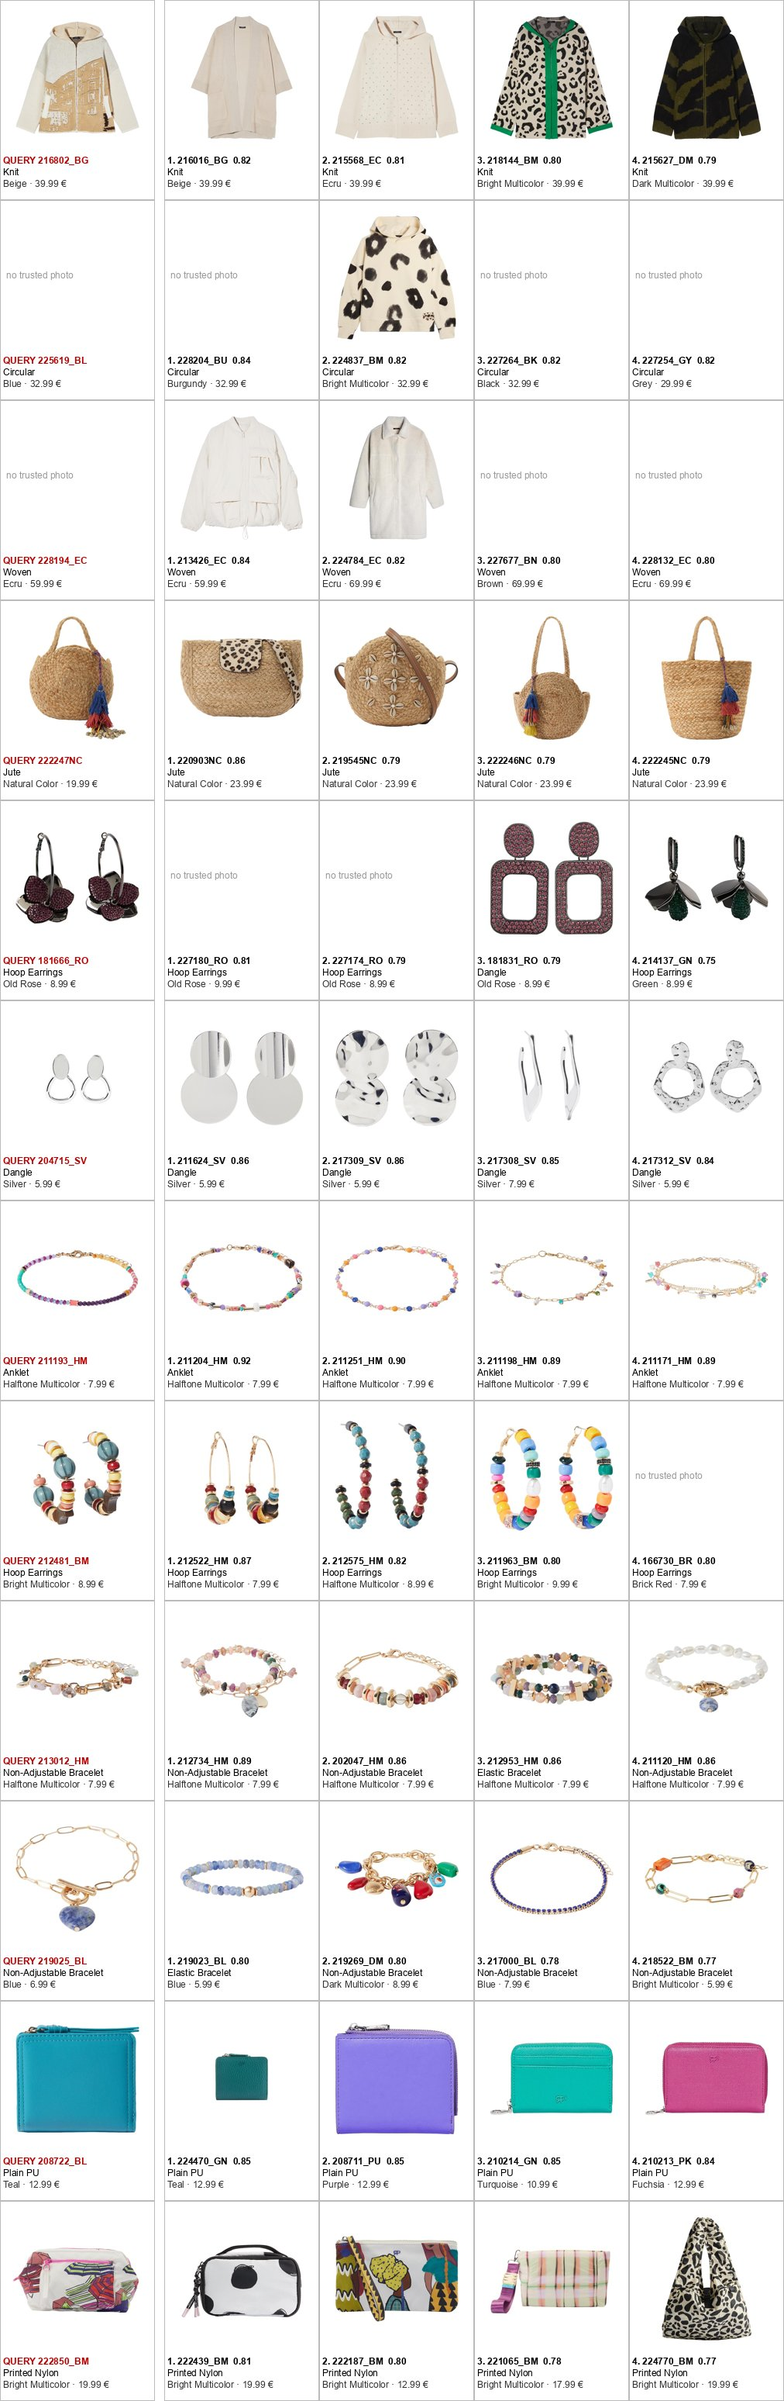
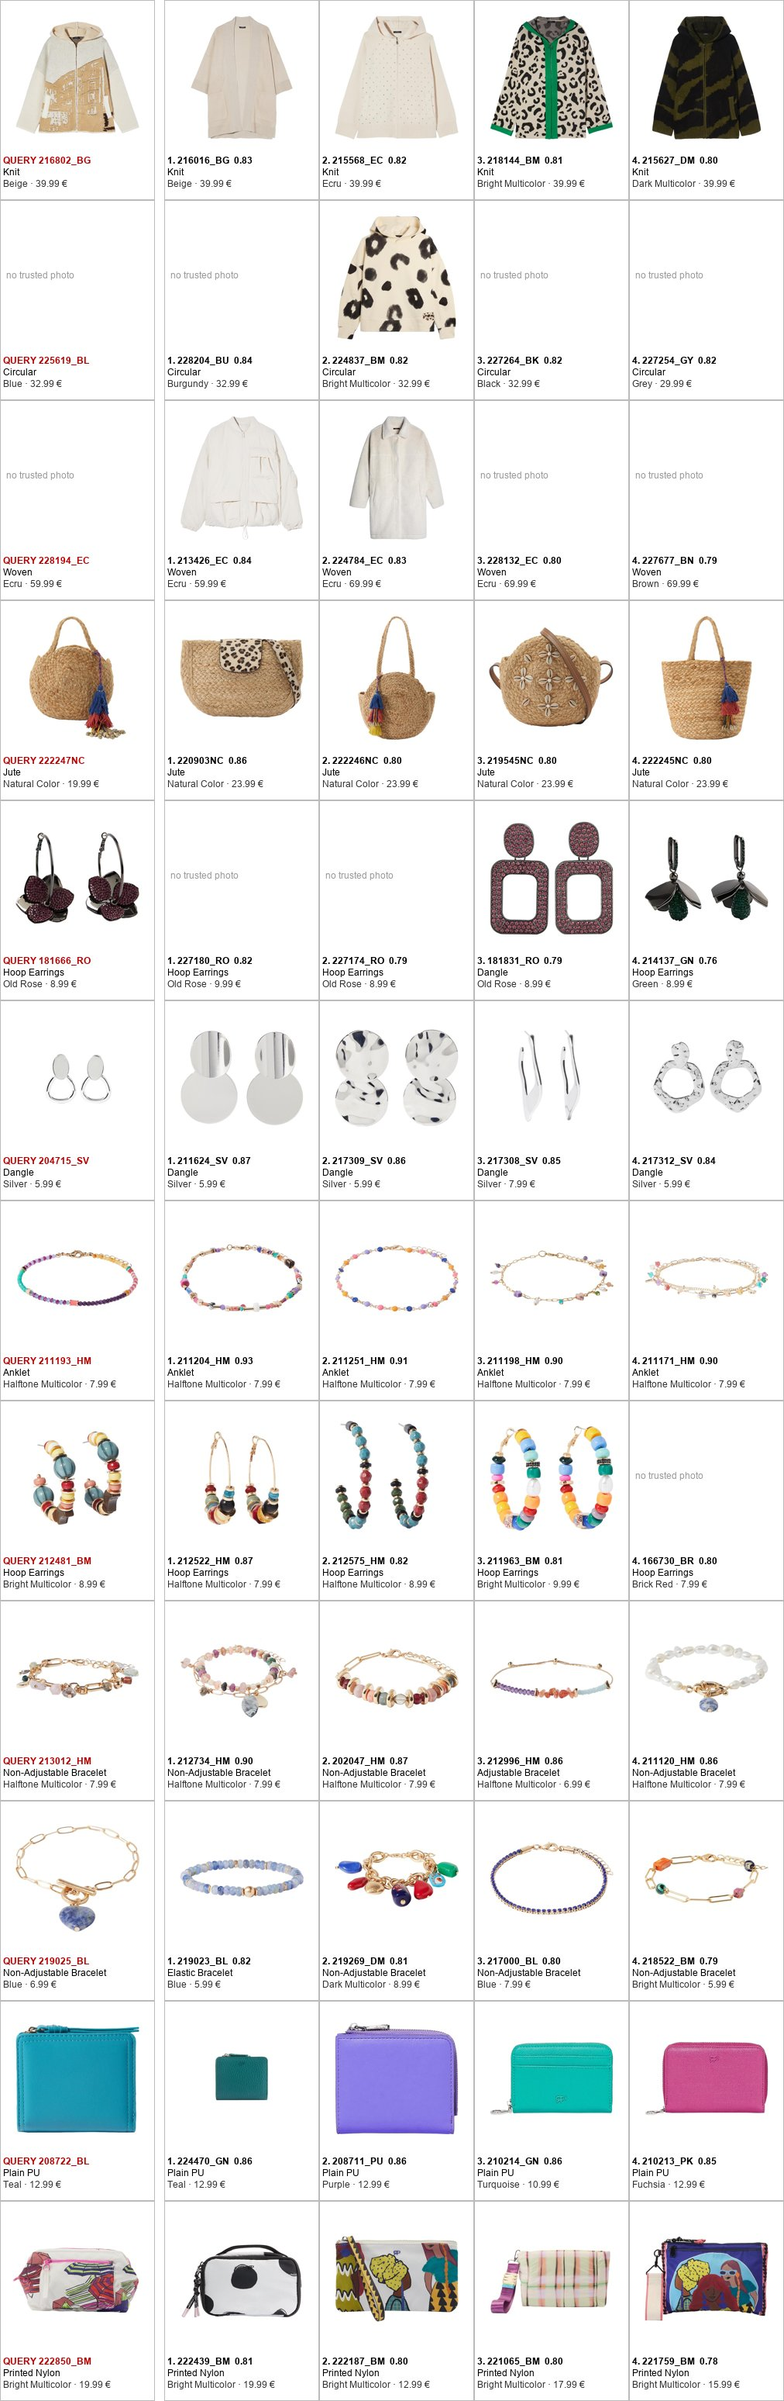
Phase 4: weights learned from the team's sorting, applied as a 25% blend
138 of 140 queries sorted (3,330 preferences). Learned: image 0.62,
categorical 0.25; held-out preferences 72.8% -> 75.3%, but material
agreement -9 points. Applied 25% of the way from the earlier tuning
(image 0.42, categorical 0.33): held-out 73.8%, material 73.9%, sales and
price unchanged. neighbours rebuilt, Phase 3/4 reports regenerated,
roadmap and progress updated.

diff --git a/outputs/phase4/eval_report.md b/outputs/phase4/eval_report.md
@@ -1,6 +1,6 @@
 # Phase 4: evaluation report
 
-Generated by `src/phase4_eval.py run` (2026-10-12). Every number is measured on the
+Generated by `src/phase4_eval.py run` (2026-10-21). Every number is measured on the
 **test half** of the models (5,292 queries); weights are tuned on the other half (5,263 queries).
 The split is fixed (models shuffled with seed 0), so runs are comparable.
 
@@ -26,14 +26,14 @@ one family for another, and the image weight is left to the human review.
 | configuration | hit@4 | hit@10 | same_family | same_subfamily | same_colour | same_finishing | same_material | visual@4 | sales_corr | price_ratio |
 |---|---|---|---|---|---|---|---|---|---|---|
 | random (same category) | 1% | 3% | 25% | 8% | 9% | 37% | 18% | 1% | 0.000 | 1.300 |
-| current weights | 91% | 96% | 98% | 90% | 58% | 84% | 74% | 39% | 0.623 | 1.000 |
-| chosen weights | 91% | 96% | 98% | 90% | 58% | 84% | 74% | 39% | 0.623 | 1.000 |
+| current weights | 92% | 96% | 98% | 90% | 59% | 84% | 74% | 41% | 0.618 | 1.000 |
+| chosen weights | 92% | 96% | 98% | 90% | 59% | 84% | 74% | 41% | 0.618 | 1.000 |
 
 | configuration | catalogue | visual | commercial | objective |
 |---|---|---|---|---|
 | random (same category) | 14% | 1% | 0.000 | 0.052 |
-| current weights | 79% | 39% | 0.623 | 0.601 |
-| chosen weights | 79% | 39% | 0.623 | 0.601 |
+| current weights | 80% | 41% | 0.618 | 0.609 |
+| chosen weights | 80% | 41% | 0.618 | 0.609 |
 
 ## Image weight: the trade-off the proxies cannot decide
 
@@ -41,52 +41,52 @@ The other blocks keep their proportions. More image weight buys visual agreement
 
 | configuration | hit@4 | hit@10 | same_family | same_subfamily | same_colour | same_finishing | same_material | visual@4 | catalogue | visual | commercial | objective |
 |---|---|---|---|---|---|---|---|---|---|---|---|---|
-| image 0 | 91% | 96% | 98% | 91% | 58% | 84% | 79% | 28% | 80% | 28% | 0.612 | 0.565 |
-| image 0.1 | 91% | 96% | 98% | 91% | 58% | 84% | 78% | 30% | 80% | 30% | 0.615 | 0.574 |
-| image 0.2 | 91% | 96% | 98% | 90% | 58% | 84% | 77% | 33% | 80% | 33% | 0.619 | 0.583 |
-| image 0.3 | 91% | 96% | 98% | 90% | 59% | 84% | 76% | 36% | 80% | 36% | 0.622 | 0.594 |
-| image 0.4 | 91% | 95% | 98% | 90% | 58% | 83% | 74% | 40% | 79% | 40% | 0.621 | 0.605 |
-| image 0.5 | 90% | 95% | 98% | 89% | 58% | 83% | 73% | 45% | 79% | 45% | 0.620 | 0.620 |
-| image 0.6 | 89% | 94% | 97% | 88% | 58% | 82% | 71% | 52% | 78% | 52% | 0.608 | 0.636 |
-| image 0.8 | 81% | 88% | 95% | 82% | 55% | 77% | 62% | 76% | 71% | 76% | 0.573 | 0.683 |
+| image 0 | 92% | 96% | 99% | 92% | 59% | 85% | 79% | 28% | 81% | 28% | 0.614 | 0.568 |
+| image 0.1 | 92% | 97% | 98% | 91% | 59% | 84% | 78% | 30% | 81% | 30% | 0.614 | 0.576 |
+| image 0.2 | 92% | 97% | 98% | 91% | 59% | 84% | 77% | 33% | 81% | 33% | 0.618 | 0.584 |
+| image 0.3 | 92% | 96% | 98% | 91% | 59% | 84% | 75% | 36% | 80% | 36% | 0.619 | 0.595 |
+| image 0.4 | 92% | 96% | 98% | 90% | 59% | 84% | 74% | 40% | 80% | 40% | 0.618 | 0.607 |
+| image 0.5 | 91% | 96% | 98% | 90% | 59% | 83% | 73% | 46% | 79% | 46% | 0.611 | 0.619 |
+| image 0.6 | 89% | 95% | 98% | 89% | 58% | 82% | 71% | 53% | 78% | 53% | 0.603 | 0.636 |
+| image 0.8 | 81% | 89% | 96% | 83% | 56% | 77% | 62% | 77% | 72% | 77% | 0.569 | 0.684 |
 
 ## Ablations (current weights, blocks switched off or used alone)
 
 | configuration | hit@4 | hit@10 | same_family | same_subfamily | same_colour | same_finishing | same_material | visual@4 | sales_corr | price_ratio |
 |---|---|---|---|---|---|---|---|---|---|---|
-| current weights | 91% | 96% | 98% | 90% | 58% | 84% | 74% | 39% | 0.623 | 1.000 |
-| tabular only | 90% | 95% | 99% | 92% | 55% | 84% | 78% | 25% | 0.621 | 1.000 |
-| visual only | 39% | 50% | 63% | 36% | 42% | 53% | 25% | 88% | 0.265 | 1.200 |
+| current weights | 92% | 96% | 98% | 90% | 59% | 84% | 74% | 41% | 0.618 | 1.000 |
+| tabular only | 91% | 96% | 99% | 92% | 56% | 85% | 77% | 26% | 0.621 | 1.000 |
+| visual only | 39% | 51% | 64% | 37% | 42% | 54% | 25% | 92% | 0.268 | 1.200 |
 | only image | 39% | 50% | 68% | 42% | 39% | 54% | 28% | 100% | 0.266 | 1.200 |
 | only categorical | 93% | 97% | 100% | 94% | 67% | 91% | 62% | 25% | 0.534 | 1.125 |
 | only text | 94% | 97% | 79% | 78% | 54% | 77% | 53% | 23% | 0.603 | 1.154 |
-| only composition | 10% | 19% | 36% | 18% | 15% | 46% | 76% | 6% | 0.244 | 1.304 |
+| only composition | 10% | 19% | 36% | 18% | 15% | 46% | 76% | 6% | 0.245 | 1.304 |
 | only palette | 11% | 18% | 27% | 11% | 32% | 43% | 20% | 9% | 0.054 | 1.304 |
 | only numeric | 16% | 27% | 42% | 17% | 17% | 48% | 27% | 5% | 0.557 | 1.000 |
-| without image | 91% | 96% | 98% | 91% | 58% | 84% | 79% | 28% | 0.612 | 1.000 |
-| without categorical | 60% | 73% | 71% | 57% | 42% | 61% | 75% | 41% | 0.609 | 1.000 |
-| without text | 89% | 94% | 98% | 87% | 59% | 84% | 76% | 39% | 0.627 | 1.000 |
-| without composition | 94% | 98% | 99% | 91% | 62% | 85% | 54% | 40% | 0.628 | 1.000 |
-| without palette | 90% | 96% | 98% | 91% | 56% | 84% | 76% | 37% | 0.630 | 1.000 |
-| without numeric | 90% | 95% | 99% | 92% | 61% | 85% | 78% | 41% | 0.550 | 1.111 |
+| without image | 92% | 96% | 99% | 92% | 59% | 85% | 79% | 28% | 0.614 | 1.000 |
+| without categorical | 62% | 75% | 72% | 59% | 43% | 62% | 74% | 48% | 0.617 | 1.000 |
+| without text | 90% | 95% | 98% | 87% | 59% | 85% | 74% | 42% | 0.624 | 1.000 |
+| without composition | 94% | 97% | 99% | 92% | 62% | 85% | 55% | 43% | 0.616 | 1.000 |
+| without palette | 91% | 96% | 99% | 91% | 57% | 84% | 75% | 40% | 0.620 | 1.000 |
+| without numeric | 91% | 95% | 99% | 92% | 62% | 85% | 76% | 44% | 0.553 | 1.111 |
 
 | configuration | catalogue | visual | commercial | objective |
 |---|---|---|---|---|
-| current weights | 79% | 39% | 0.623 | 0.601 |
-| tabular only | 80% | 25% | 0.621 | 0.558 |
-| visual only | 39% | 88% | 0.265 | 0.513 |
+| current weights | 80% | 41% | 0.618 | 0.609 |
+| tabular only | 80% | 26% | 0.621 | 0.560 |
+| visual only | 40% | 92% | 0.268 | 0.528 |
 | only image | 41% | 100% | 0.266 | 0.558 |
 | only categorical | 81% | 25% | 0.534 | 0.533 |
 | only text | 71% | 23% | 0.603 | 0.514 |
-| only composition | 33% | 6% | 0.244 | 0.212 |
+| only composition | 33% | 6% | 0.245 | 0.212 |
 | only palette | 23% | 9% | 0.054 | 0.126 |
 | only numeric | 25% | 5% | 0.557 | 0.287 |
-| without image | 80% | 28% | 0.612 | 0.565 |
-| without categorical | 59% | 41% | 0.609 | 0.538 |
-| without text | 79% | 39% | 0.627 | 0.603 |
-| without composition | 77% | 40% | 0.628 | 0.599 |
-| without palette | 79% | 37% | 0.630 | 0.597 |
-| without numeric | 81% | 41% | 0.550 | 0.590 |
+| without image | 81% | 28% | 0.614 | 0.568 |
+| without categorical | 60% | 48% | 0.617 | 0.567 |
+| without text | 79% | 42% | 0.624 | 0.612 |
+| without composition | 77% | 43% | 0.616 | 0.607 |
+| without palette | 80% | 40% | 0.620 | 0.605 |
+| without numeric | 81% | 44% | 0.553 | 0.601 |
 
 ## Weight tuning
 
@@ -96,14 +96,14 @@ drops by more than 0.01.
 
 | step | change | catalogue | visual | commercial | objective |
 |---|---|---|---|---|---|
-| 0 | start | 80% | 39% | 0.625 | 0.605 |
+| 0 | start | 80% | 42% | 0.622 | 0.614 |
 
 | weights | image | categorical | text | composition | palette | numeric |
 |---|---|---|---|---|---|---|
-| current | 0.360 | 0.360 | 0.080 | 0.080 | 0.040 | 0.080 |
-| chosen | 0.360 | 0.360 | 0.080 | 0.080 | 0.040 | 0.080 |
+| current | 0.424 | 0.332 | 0.077 | 0.067 | 0.034 | 0.066 |
+| chosen | 0.424 | 0.332 | 0.077 | 0.067 | 0.034 | 0.066 |
 
-The current weights already come from an earlier tuning (phase4_eval.py run --apply, 2026-10-12). No change passed the rule, so the current weights are kept. The weights file was not changed (`--apply` writes it).
+The current weights already come from an earlier tuning (phase4_feedback.py fit (138 queries, 5 members) blended 25% with the earlier tuning, 2026-10-21). No change passed the rule, so the current weights are kept. The weights file was not changed (`--apply` writes it).
 
 ## Human review
 

diff --git a/docs/roadmap.md b/docs/roadmap.md
@@ -20,7 +20,7 @@ This is the only place that tracks the status. The evidence for each item is in 
 |---|---|---|
 | **Sprint 1: data cleaning and validation** | 0, 1, 1b | ✅ **Done**: setup, automatic checks, image pre-screen, review app, cleaning, manual review by the 5 members, every photo checked, merge (`items_clean.parquet`) |
 | Sprint 2: features | 1 (rest), 2a, 2b | ✅ **Done**: Phase 2a (4 tabular/text blocks, missing attributes filled where reliable) and Phase 2b (image embeddings, colour palettes) |
-| Sprint 3: similarity and evaluation | 3, 4 | 🟡 **Almost done**: Phase 3 done (`neighbours.parquet`); Phase 4 evaluation and tuning done, interactive feedback app waiting for the team |
+| Sprint 3: similarity and evaluation | 3, 4 | ✅ **Done**: Phase 3 (`neighbours.parquet`); Phase 4 evaluation, tuning and the team's feedback (weights learned from 138 sorted queries, applied as a 25% blend) |
 | Sprint 4: explanations and delivery | 5, 6 | ⚪ Not started |
 
 | Phase | Status | Done | Still to do |
@@ -31,13 +31,12 @@ This is the only place that tracks the status. The evidence for each item is in 
 | 2a. Tabular/text features | ✅ | Categorical, composition, numeric and text blocks (`phase2a_features.py`, `phase2a_text.py`), missing attributes filled (`phase2a_impute.py`) | – |
 | 2b. Visual features | ✅ | Image embeddings (`data/embeddings/image_clip.npy`), colour palettes (`phase2b_palettes.py`) | Optional, **after the team's sorting**: DINOv2, CLIP tags |
 | 3. Similarity engine | ✅ | Weighted per-block cosine, like-for-like candidates, fallback without a trusted photo, top-10 for every colourway (`phase3_engine.py` → `neighbours.parquet`) | – |
-| 4. Evaluation | 🟡 | Fixed evaluation script (`phase4_eval.py`): proxy hit rate, attribute agreement, sales check, ablations, weights tuned on half of the models | Team sorts its queries in the feedback app (`phase4_feedback.py`); then the learned weights are applied |
+| 4. Evaluation | ✅ | Fixed evaluation script (`phase4_eval.py`): proxy hit rate, attribute agreement, sales check, ablations, weights tuned on half of the models; interactive feedback (`phase4_feedback.py`): 138 of 140 queries sorted, weights applied as a 25% blend | Optional: André's last 2 queries (refit only) |
 | 5–6 | ⚪ | – | Everything |
 
 **Next:**
-1. **Team:** each member sorts their 28 queries in the feedback app (`4_feedback_windows.bat` / `4_feedback_mac.command`, or `python src/phase4_feedback.py app --id <n>`) and clicks *Submit*. Steps in the README. Then one person runs `python src/phase4_feedback.py fit --apply`, `python src/phase3_engine.py build` and `python src/phase4_eval.py run` (no proxy metric may drop).
-2. Phase 5 can start now: the explanations read `sim_<block>` / `contrib_<block>` from `neighbours.parquet`.
-3. **Only after step 1:** decide on the optional Phase 2b items (DINOv2, CLIP tags), tested on the team's answers. See Phase 2b.
+1. **Phase 5** (explanations): they read `sim_<block>` / `contrib_<block>` from `neighbours.parquet`, rebuilt with the new weights.
+2. **Now possible:** decide on the optional Phase 2b items (DINOv2, CLIP tags), tested on the team's answers. See Phase 2b.
 
 ---
 
@@ -252,7 +251,7 @@ There is no labelled ground truth, so combine several signals:
 - [x] **Commercial sanity check:** similar items should have similar prices and sales profiles (correlation of log sales). *(Spearman 0.62 between the query's sales percentile and its top 4 (random 0.00); median price ratio 1.00.)*
 - [x] **Ablations:** tabular only, visual only, and combined. Tune the block weights. *(Each block alone and left out; tuned on half of the models, reported on the other half. A change is kept only if no metric drops by more than 1 point, because every proxy is circular for one block: an unconstrained search put 88% of the weight on the image and lost a third of the material agreement. The image weight itself is left to the human review.)*
 - [ ] **Human review set:** about 50 query items × top-5 results in a scoring sheet for buyers or the team. *(Sheets ready: `outputs/phase4/human_review_<n>.csv`, one per member, 50 queries (10 per category, 2 without a photo), blind pool of the top 5 at image weights 0, 0.3 and 0.6 = 319 pairs; waiting for the team's verdicts.)*
-- [ ] **Interactive feedback:** reviewers sort each query's candidates (similar, best first / not similar) in the browser, and the block weights are learned from the preferences. *(2026-10-12: `src/phase4_feedback.py`. Fixed pools so the learned weights never change what is shown: 100 queries (16 + 4 per category), top 5 at image weights 0 / 0.3 / 0.6 + 2 random, shuffled and blind, 847 candidates; 20 queries held out, 10 sorted by everybody. Bradley-Terry fit with a prior towards the current weights, refitted after every answer. Waiting for the team's answers. Supersedes the CSV sheets above.)*
+- [x] **Interactive feedback:** reviewers sort each query's candidates (similar, best first / not similar) in the browser, and the block weights are learned from the preferences. *(2026-10-12: `src/phase4_feedback.py`. Fixed pools so the learned weights never change what is shown: 100 queries (16 + 4 per category), top 5 at image weights 0 / 0.3 / 0.6 + 2 random, shuffled and blind, 847 candidates; 20 queries held out, 10 sorted by everybody. Bradley-Terry fit with a prior towards the current weights, refitted after every answer. Supersedes the CSV sheets above. 2026-10-21: 138 of 140 queries sorted (André 26/28), 3,330 preferences; learned image 0.62, categorical 0.25; held-out preferences ordered right 72.8% → 75.3%; reviewers agree on 70% of pairs. The full learned weights cost 9 points of material agreement, so a 25% blend is applied (image 0.42, categorical 0.33): held-out 73.8%, material 73.9% (was 74.5%). Details in `outputs/phase4/feedback_report.md`.)*
 - [x] A fixed evaluation script, so every change reports the same numbers. *(`src/phase4_eval.py run`, ~3 min, fixed split and seeds.)*
 
 **Output:** `outputs/phase4/eval_report.md`, `eval_metrics.csv`, `weight_search.csv`, `human_review_<n>.csv` + `.jpg` (one per member) + `human_review.json`, `feedback_pool.json`, `feedback_<n>.jsonl` (one per member), `feedback_report.md`.

diff --git a/outputs/phase4/feedback_report.md b/outputs/phase4/feedback_report.md
@@ -1,7 +1,7 @@
 # Phase 4: interactive feedback report
 
-Generated by `src/phase4_feedback.py fit` (2026-10-12) from
-28 sorted queries (4 Manuel).
+Generated by `src/phase4_feedback.py fit` (2026-10-21) from
+138 sorted queries (1 André, 2 Pedro Correia, 3 Pedro Meireles, 4 Manuel, 5 Zé).
 
 The reviewers drag each query's candidates into *Similar* (best first) or *Not similar*. Every similar item beats the
 items below it and every "not" item; the six block weights are fitted to those preferences with a Bradley-Terry
@@ -11,16 +11,16 @@ blind, so the learned weights never change what a reviewer sees.
 
 ## Weights
 
-Fitted on 22 queries (557 preferences).
+Fitted on 79 queries (3,330 preferences).
 
 | Block | Start | Learned |
 |---|---|---|
-| `image` | 0.360 | 0.456 |
-| `categorical` | 0.360 | 0.147 |
-| `text` | 0.080 | 0.248 |
-| `composition` | 0.080 | 0.046 |
-| `palette` | 0.040 | 0.045 |
-| `numeric` | 0.080 | 0.058 |
+| `image` | 0.360 | 0.618 |
+| `categorical` | 0.360 | 0.247 |
+| `text` | 0.080 | 0.067 |
+| `composition` | 0.080 | 0.028 |
+| `palette` | 0.040 | 0.016 |
+| `numeric` | 0.080 | 0.024 |
 
 ## Held-out check
 
@@ -28,15 +28,30 @@ Fitted on 22 queries (557 preferences).
 
 | Weights | Preferences | Ordered right | Top 3 judged similar |
 |---|---|---|---|
-| start | 156 | 78% | 94% |
-| learned | 156 | 79% | 94% |
+| start | 699 | 73% | 94% |
+| learned | 699 | 75% | 94% |
 
 ## Reviewer agreement
 
-On the 10 queries every member sorts: 0 candidate pairs ordered by two members,
-– in the same order. This is the ceiling: the weights cannot agree with "the team" more than
+On the 10 queries every member sorts: 2371 candidate pairs ordered by two members,
+70% in the same order. This is the ceiling: the weights cannot agree with "the team" more than
 its members agree with each other.
 
 ## Applied
 
-Not applied (`--apply` writes the weights if the held-out check passes).
+Not the learned weights themselves: a blend, **25% of the way** from the Phase 4 tuned weights to the learned ones
+(2026-10-21), written to `src/phase3_weights.json`:
+image 0.42, categorical 0.33, text 0.08, composition 0.07, palette 0.03, numeric 0.07.
+
+| Blend | Image | Held-out preferences right | Same material (top 4) | Sales correlation | Price ratio |
+|---|---|---|---|---|---|
+| 0% (earlier tuning) | 0.36 | 72.8% | 74.5% | 0.62 | 1.00 |
+| **25% (applied)** | 0.43 | 73.8% | 73.9% | 0.62 | 1.00 |
+| 50% | 0.49 | 73.4% | 72.1% | 0.61 | 1.00 |
+| 75% | 0.55 | 74.2% | 69.7% | 0.60 | 1.07 |
+| 100% (learned) | 0.62 | 75.3% | 65.6% | 0.59 | 1.08 |
+
+Why: the fully learned weights order the most held-out preferences right, but cost 9 points of material agreement and
+move the prices of the matches apart. The gaps between 73% and 75% are small for 699 held-out pairs, while the
+material drop is not, so the blend keeps most of the human gain at almost no cost (proxy metrics on the test half of the
+models, `phase4_eval.py run`). André's last 2 queries were not in yet (138 of 140 answers).

diff --git a/outputs/phase3/engine_report.md b/outputs/phase3/engine_report.md
@@ -14,12 +14,12 @@ Output: `data/processed/neighbours.parquet` (105,550 rows: query, rank, candidat
 
 | Block | Weight | Items with the block |
 |---|---|---|
-| `image` | 0.36 | 9,445 |
-| `categorical` | 0.36 | 10,555 |
+| `image` | 0.42 | 9,445 |
+| `categorical` | 0.33 | 10,555 |
 | `text` | 0.08 | 10,555 |
-| `composition` | 0.08 | 10,554 |
-| `palette` | 0.04 | 9,445 |
-| `numeric` | 0.08 | 10,555 |
+| `composition` | 0.07 | 10,554 |
+| `palette` | 0.03 | 9,445 |
+| `numeric` | 0.07 | 10,555 |
 
 The `image` block only uses photos with `img_trusted`, the `palette` block only photos with `img_colour_trusted`.
 
@@ -33,7 +33,7 @@ The `image` block only uses photos with `img_trusted`, the `palette` block only 
 | Jewellery | 4,639 | 4,156 | 0 |
 | Wallet | 1,251 | 1,191 | 0 |
 
-74 queries have a best match scoring ≥ 0.99: almost always the
+72 queries have a best match scoring ≥ 0.99: almost always the
 same design under another model code (e.g. a size or pack variant). They are kept, because they are different
 models, but Phase 4 should check whether buyers see them as duplicates.
 
@@ -44,26 +44,26 @@ of the higher to the lower price (1.00 = same price). A first sanity check; Phas
 
 | CAT | score_rank1 | score_rank4 | same_family | same_subfamily | same_colour | median price ratio |
 |---|---|---|---|---|---|---|
-| Apparel | 0.84 | 0.79 | 98% | 95% | 42% | 1.08 |
-| Footwear | 0.87 | 0.82 | 99% | 94% | 50% | 1.08 |
-| Hand Bag | 0.86 | 0.80 | 95% | 82% | 58% | 1.00 |
-| Jewellery | 0.87 | 0.82 | 100% | 91% | 70% | 1.00 |
-| Wallet | 0.84 | 0.78 | 96% | 83% | 53% | 1.00 |
+| Apparel | 0.85 | 0.80 | 98% | 96% | 43% | 1.08 |
+| Footwear | 0.87 | 0.82 | 99% | 94% | 50% | 1.09 |
+| Hand Bag | 0.87 | 0.81 | 95% | 83% | 59% | 1.00 |
+| Jewellery | 0.88 | 0.83 | 100% | 92% | 70% | 1.00 |
+| Wallet | 0.84 | 0.79 | 96% | 83% | 54% | 1.00 |
 
 | query | queries | mean_score | same_subfamily | same_colour |
 |---|---|---|---|---|
-| tabular only | 1,110 | 0.81 | 89% | 50% |
-| trusted photo | 9,445 | 0.83 | 90% | 60% |
+| tabular only | 1,110 | 0.81 | 90% | 52% |
+| trusted photo | 9,445 | 0.84 | 90% | 61% |
 
 ## What drives the score (share of the top-4 scores per block)
 
 | CAT | image | categorical | text | composition | palette | numeric |
 |---|---|---|---|---|---|---|
-| Apparel | 31% | 40% | 10% | 9% | 2% | 8% |
-| Footwear | 37% | 35% | 9% | 9% | 3% | 7% |
-| Hand Bag | 35% | 36% | 9% | 9% | 3% | 7% |
-| Jewellery | 32% | 41% | 10% | 7% | 3% | 8% |
-| Wallet | 37% | 35% | 9% | 9% | 3% | 7% |
+| Apparel | 37% | 38% | 10% | 8% | 2% | 7% |
+| Footwear | 44% | 33% | 9% | 7% | 3% | 5% |
+| Hand Bag | 42% | 34% | 9% | 8% | 2% | 6% |
+| Jewellery | 38% | 38% | 9% | 6% | 2% | 7% |
+| Wallet | 43% | 32% | 9% | 7% | 2% | 6% |
 
 ## Examples
 

diff --git a/docs/progress.md b/docs/progress.md
@@ -364,3 +364,23 @@ six block weights are fitted to them (Bradley-Terry, the logistic model of RankN
 - **Decision:** the engine is unchanged (`features_categorical.npy` is identical). The reference table is kept for Phase 5, which can say "close colours: Navy ≈ Midnight Blue" instead of "different colour".
 - **For the team (optional, 2 min):** check `outputs/phase2a/colour_reference.jpg`. Two names look off: "Blue" is a greyish blue (denim and neutral parts in the photos) and "Coffee" is grey (5 photos only).
 - Tests: 155 (8 new: 7 unit tests on hand-made palettes, incl. the exact factorisation of the similarity, + a contract on `colour_reference.parquet`).
+
+## 22. Weights learned from the team's sorting (Phase 4, 2026-10-21)
+
+All members sorted their queries in the feedback app: 138 of 140 (André 26/28), 3,330 pairwise preferences.
+
+| Block | Before | Learned | Applied (25% blend) |
+|---|---|---|---|
+| image | 0.36 | 0.62 | **0.42** |
+| categorical | 0.36 | 0.25 | **0.33** |
+| text | 0.08 | 0.07 | 0.08 |
+| composition | 0.08 | 0.03 | 0.07 |
+| palette | 0.04 | 0.02 | 0.03 |
+| numeric | 0.08 | 0.02 | 0.07 |
+
+- **The team wants the photo to count more.** On the 20 held-out queries the learned weights order 75.3% of the preferences right (72.8% before).
+- **Reviewer agreement:** 70% of the pairs on the 10 shared queries, the ceiling for any weights.
+- **Cost of the full learned weights** (proxy metrics, test half): visual agreement +17 points, but material agreement −9 (74.5% → 65.6%), sales correlation 0.62 → 0.59, price ratio 1.00 → 1.08.
+- **Applied: a 25% blend.** Held-out 73.8%, material 73.9%, sales 0.62, price ratio 1.00, `hit@4` 91.5%, visual agreement 41%. The gap between 73.8% and 75.3% is small for 699 held-out pairs; the material drop is not. Table of the blends in `outputs/phase4/feedback_report.md`.
+- `neighbours.parquet` rebuilt; `outputs/phase3/` and `outputs/phase4/eval_report.md` regenerated.
+
